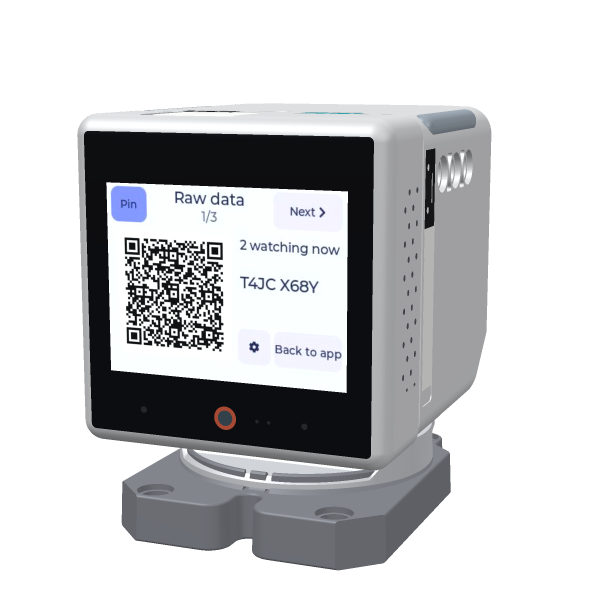
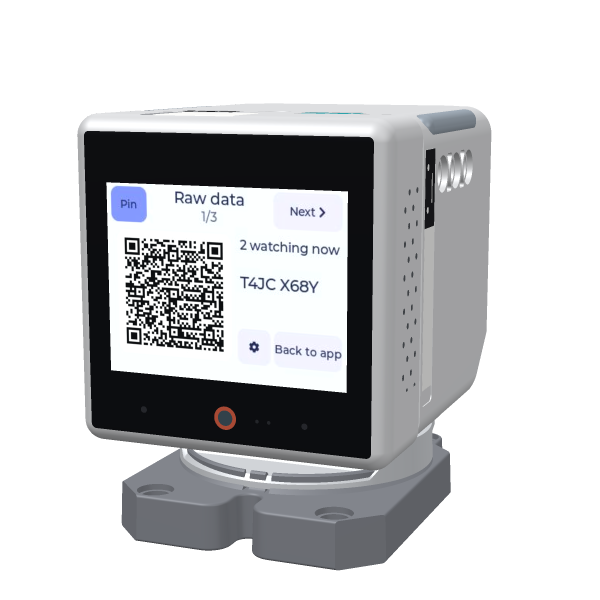
The QR screen's code is a placeholder; one-robot-many-apps rendered again
screens/qr.png's QR code held a real pairing address (a one-time code and pairing secret, long
expired, and the robot's public key): it is now a placeholder,
https://raw.q41.eu/pair?code=T4JCX68Y#e2e=1.AAAA….AAAA…, drawn over the real code at the same
version and size. qr and one-robot-many-apps rendered again; the GIF's captions now name the
i41-eu repos (renders.json had them, the GIF was older). mj-ofun's copy is
imgs/i41-one-robot-many-apps.gif (no "stackchan-" names). AGENTS.md and the README say screens
hold no private data, also not in a QR code.

Changed region(s): [[0.21, 0.39, 0.39, 0.6]]

diff --git a/AGENTS.md b/AGENTS.md
@@ -10,5 +10,8 @@ Assets for the Stackchan projects: robot3d (a 3D model of the robot drawn in Go,
 - `GOWORK=off go test ./...` (the parent directory has a go.work without this module).
 - The robot pictures in other repos are written by robot3d-distribute: change renders.json or
   screens/ here, rerender, distribute, then commit in each repo; never edit those copies by hand.
-- screens/ must not show private data (LAN addresses, real device ids, hostnames): e.g. the
-  Manager screen with a LAN address is kept out of renders.json.
+- screens/ must not show private data (LAN addresses, real device ids, hostnames), also not
+  inside a QR code: e.g. the Manager screen with a LAN address is kept out of renders.json, and
+  screens/qr.png's code is a placeholder (https://raw.q41.eu/pair?code=T4JCX68Y#e2e=1.AAAA….AAAA…,
+  drawn over the real screen's code, same version and size). Decode a screen's QR code before
+  adding it.

diff --git a/README.md b/README.md
@@ -54,7 +54,9 @@ pitches about the servo's horn, 24 mm above its bottom, right over the yaw axis.
 All robot pictures in the docs, READMEs and pages come from here, so one change (the model, a
 screen, a pose) refreshes them everywhere:
 
-1. `screens/`: the robot's screens (320x240), e.g. from `i41eu-usb screenshot -o x.jpg`.
+1. `screens/`: the robot's screens (320x240), e.g. from `i41eu-usb screenshot -o x.jpg`. They
+   show no private data, also not in a QR code: `screens/qr.png`'s code is a placeholder pairing
+   address.
 2. `renders.json`: each picture: a still (one screen) or an animation (frames with captions), the
    head's pose, the camera, the LEDs, the size.
 3. `go run ./cmd/robot3d-renders` writes `renders/` (stills PNG, animations GIF); `-only a,b`
